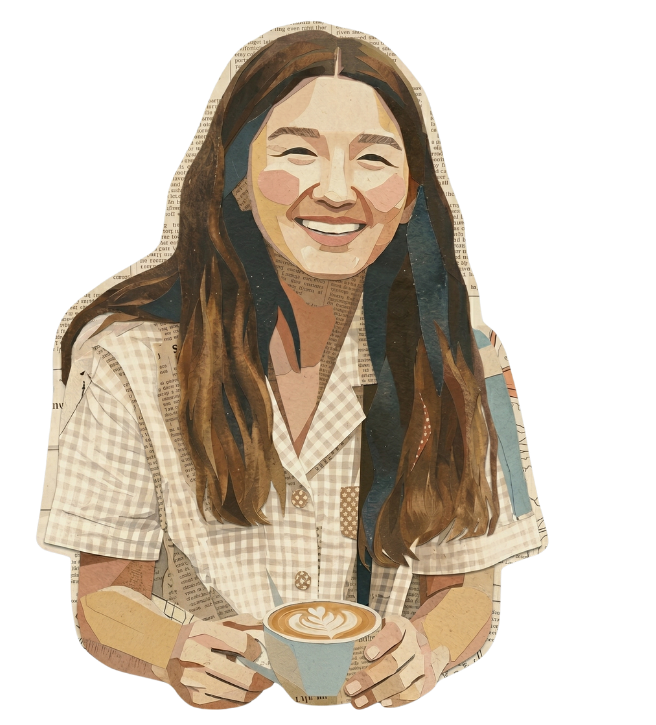
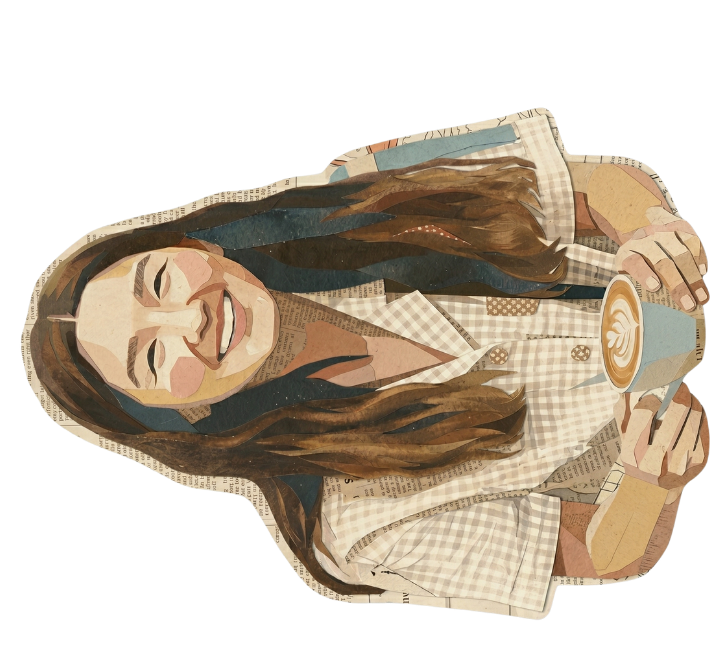
pens-com MPV complete, landing page image fixed

diff --git a/pens-com.html b/pens-com.html
@@ -453,6 +453,8 @@
     height: auto;
     border:0;
   }
+  .phone-bezel .screen::-webkit-scrollbar{ display:none; }
+  .laptop-screen::-webkit-scrollbar{ display:none; }
   .phone-bezel .home-bar{
     width:80px; height:4px;
     background:rgba(255,255,255,.25);
@@ -553,6 +555,12 @@
     --cream-3: rgba(255,255,255,.04);
   }
   .block.forest h2 em{ color: rgba(239,236,224,.6); }
+  .block.forest .scroll-btn{
+    background: #efece0;
+    color: var(--forest);
+  }
+  .block.forest .scroll-btn:hover{ background: #fff; }
+  .block.forest .scroll-btn:disabled{ opacity:.2; }
   .block.forest .ph-caption{ color: rgba(239,236,224,.4); }
   .block.forest .ph-caption::before{ border-color: rgba(239,236,224,.3); }
 
@@ -576,6 +584,19 @@
     gap:10px; transition:background .2s, color .2s;
   }
   .arrow-btn:hover{ background:var(--forest); color:var(--cream); }
+
+  /* ── SCROLL STRIP NAV ── */
+  .scroll-strip{ position:relative; }
+  .scroll-nav{ display:flex; gap:3px; align-items:center; }
+  .scroll-btn{
+    background:var(--ink); color:var(--cream);
+    border:none; width:26px; height:26px;
+    display:flex; align-items:center; justify-content:center;
+    cursor:pointer; padding:0; flex-shrink:0;
+    opacity:.7; transition:opacity .18s, background .18s;
+  }
+  .scroll-btn:hover{ opacity:1; }
+  .scroll-btn:disabled{ opacity:.2; cursor:default; }
 
   /* ── RESPONSIVE ── */
   @media(max-width:900px){
@@ -846,25 +867,29 @@
     </div>
 
     <!-- Research artifacts — documentation -->
-    <div style="margin-top:48px;">
-      <div style="font-family:var(--mono); font-size:9px; letter-spacing:.2em; text-transform:uppercase; color:var(--ink-faint); margin-bottom:12px; display:flex; justify-content:space-between;">
-        <span>Research artifacts</span><span>scroll to explore →</span>
+    <div class="scroll-strip" style="margin-top:48px;">
+      <div style="font-family:var(--mono); font-size:9px; letter-spacing:.2em; text-transform:uppercase; color:var(--ink-faint); margin-bottom:12px; display:flex; justify-content:space-between; align-items:center;">
+        <span>Research artifacts</span>
+        <div class="scroll-nav">
+          <button class="scroll-btn scroll-prev" aria-label="Previous"><svg width="11" height="11" viewBox="0 0 14 14" fill="none" stroke="currentColor" stroke-width="2.2"><path d="M9 2L4 7l5 5"/></svg></button>
+          <button class="scroll-btn scroll-next" aria-label="Next"><svg width="11" height="11" viewBox="0 0 14 14" fill="none" stroke="currentColor" stroke-width="2.2"><path d="M5 2l5 5-5 5"/></svg></button>
+        </div>
       </div>
-      <div style="display:flex; gap:2px; overflow-x:auto; scroll-snap-type:x mandatory; -webkit-overflow-scrolling:touch; background:var(--line-soft);">
+      <div class="scroll-inner" style="display:flex; gap:2px; overflow-x:auto; scroll-snap-type:x mandatory; -webkit-overflow-scrolling:touch; background:var(--line-soft);">
         <div style="flex-shrink:0; scroll-snap-align:start; background:var(--cream-2); overflow:hidden;">
-          <img src="assets/Pens_Microsite_Mobile_Audit_web.jpg" alt="Heuristic audit annotations" style="height:600px; width:auto; display:block;">
+          <a href="assets/Pens_Microsite_Mobile_Audit_web.jpg" target="_blank" class="img-link"><img src="assets/Pens_Microsite_Mobile_Audit_web.jpg" alt="Heuristic audit annotations" style="height:600px; width:auto; display:block;"></a>
           <div style="font-family:var(--mono); font-size:9px; color:var(--ink-faint); padding:8px 12px;">Heuristic audit · annotated</div>
         </div>
         <div style="flex-shrink:0; scroll-snap-align:start; background:var(--cream-2); overflow:hidden;">
-          <img src="assets/Pens_Microsite_mobile_findings_2.png" alt="User testing findings — sheet 2" style="height:600px; width:auto; display:block;">
+          <a href="assets/Pens_Microsite_mobile_findings_2.png" target="_blank" class="img-link"><img src="assets/Pens_Microsite_mobile_findings_2.png" alt="User testing findings — sheet 2" style="height:600px; width:auto; display:block;"></a>
           <div style="font-family:var(--mono); font-size:9px; color:var(--ink-faint); padding:8px 12px;">User testing findings · sheet 1</div>
         </div>
         <div style="flex-shrink:0; scroll-snap-align:start; background:var(--cream-2); overflow:hidden;">
-          <img src="assets/Pens_Microsite_mobile_findings_1.png" alt="User testing findings — sheet 1" style="height:600px; width:auto; display:block;">
+          <a href="assets/Pens_Microsite_mobile_findings_1.png" target="_blank" class="img-link"><img src="assets/Pens_Microsite_mobile_findings_1.png" alt="User testing findings — sheet 1" style="height:600px; width:auto; display:block;"></a>
           <div style="font-family:var(--mono); font-size:9px; color:var(--ink-faint); padding:8px 12px;">User testing findings · sheet 2</div>
         </div>
         <div style="flex-shrink:0; scroll-snap-align:start; background:var(--cream-2); overflow:hidden;">
-          <img src="assets/Pens_Microsite_Mobile_Testing_Results.jpg" alt="Testing results summary" style="height:600px; width:auto; display:block;">
+          <a href="assets/Pens_Microsite_Mobile_Testing_Results.jpg" target="_blank" class="img-link"><img src="assets/Pens_Microsite_Mobile_Testing_Results.jpg" alt="Testing results summary" style="height:600px; width:auto; display:block;"></a>
           <div style="font-family:var(--mono); font-size:9px; color:var(--ink-faint); padding:8px 12px;">Testing results summary</div>
         </div>
       </div>
@@ -967,11 +992,15 @@
     </div>
 
     <!-- Backlog section -->
-    <div style="margin-top:40px; margin-bottom:48px;">
-      <div style="font-family:var(--mono); font-size:9px; letter-spacing:.2em; text-transform:uppercase; color:var(--ink-faint); margin-bottom:12px; display:flex; justify-content:space-between;">
-        <span>Ideation backlog · impact/effort matrix + lo-fi concepts</span><span>scroll to explore →</span>
+    <div class="scroll-strip" style="margin-top:40px; margin-bottom:48px;">
+      <div style="font-family:var(--mono); font-size:9px; letter-spacing:.2em; text-transform:uppercase; color:var(--ink-faint); margin-bottom:12px; display:flex; justify-content:space-between; align-items:center;">
+        <span>Ideation backlog · impact/effort matrix + lo-fi concepts</span>
+        <div class="scroll-nav">
+          <button class="scroll-btn scroll-prev" aria-label="Previous"><svg width="11" height="11" viewBox="0 0 14 14" fill="none" stroke="currentColor" stroke-width="2.2"><path d="M9 2L4 7l5 5"/></svg></button>
+          <button class="scroll-btn scroll-next" aria-label="Next"><svg width="11" height="11" viewBox="0 0 14 14" fill="none" stroke="currentColor" stroke-width="2.2"><path d="M5 2l5 5-5 5"/></svg></button>
+        </div>
       </div>
-      <div style="display:flex; gap:2px; overflow-x:auto; scroll-snap-type:x mandatory; -webkit-overflow-scrolling:touch; background:var(--line-soft);">
+      <div class="scroll-inner" style="display:flex; gap:2px; overflow-x:auto; scroll-snap-type:x mandatory; -webkit-overflow-scrolling:touch; background:var(--line-soft);">
 
         <div style="flex-shrink:0; scroll-snap-align:start; background:var(--cream-2); overflow:hidden;">
           <a href="assets/Pens_Microsite_Impact_Effort_Matrix.jpg" target="_blank" class="img-link"><img src="assets/Pens_Microsite_Impact_Effort_Matrix.jpg" alt="Impact/effort matrix" style="height:600px; width:auto; display:block;"></a>
@@ -1025,38 +1054,54 @@
     <h2>Set the vision. <em>Ship smart.</em></h2>
 
     <p>
-      Before any concepts, I mapped the checkout system as it actually existed. What I found wasn't one checkout. It was four distinct payment portals, each with its own decision tree, UI, and abandonment risk. It wasn't a UX problem sitting on top of a working system. The system itself had fractured into four separate things.
+      Before any concepts, I mapped the checkout system as it actually existed. What I found wasn't one checkout. It was one main website checkout with three other payment portals, each with its own decision tree, UI, and abandonment risk. It was both a UX problem and a business problem. We were supporting in total 3 different types of checkouts: (1) main website (2) payment portals (3) microsite. 
     </p>
 
     <!-- Checkout flow complexity -->
-    <div style="margin-top:32px; margin-bottom:32px;">
-      <div style="font-family:var(--mono); font-size:9px; letter-spacing:.2em; text-transform:uppercase; color:var(--ink-faint); margin-bottom:12px;">Current state · mobile guest checkout flow</div>
-      <img src="assets/Pens_Checkout_Flow_Mobile.jpg" alt="Mobile guest checkout flow — current state" style="width:100%; display:block; border:1px solid var(--line-soft);">
-      <div class="ph-caption">Mobile guest checkout · 4 pages, multiple branching paths · mapped before any redesign work began</div>
-    </div>
-
-    <div style="margin-bottom:32px;">
-      <div style="font-family:var(--mono); font-size:9px; letter-spacing:.2em; text-transform:uppercase; color:var(--ink-faint); margin-bottom:12px;">Additional payment portals · 3 separate systems</div>
-      <img src="assets/Pens_Checkout_Flow_Other_Portals.jpg" alt="Order Payment Portal, Invoice Payment Portal, One Flow Payment Portal flows" style="width:100%; display:block; border:1px solid var(--line-soft);">
-      <div class="ph-caption">Order Payment · Invoice Payment · One Flow Payment · each with its own decision tree and abandonment risk</div>
-    </div>
-
-    <!-- Baymard research placeholder -->
-    <div style="margin-bottom:32px;">
-      <div style="font-family:var(--mono); font-size:9px; letter-spacing:.2em; text-transform:uppercase; color:var(--ink-faint); margin-bottom:12px;">Research foundation · Baymard Institute audit</div>
-      <div style="aspect-ratio:16/7; background:var(--cream-3); border:1px solid var(--line-soft); display:flex; flex-direction:column; align-items:center; justify-content:center; gap:8px;">
-        <div style="font-family:var(--mono); font-size:9px; letter-spacing:.2em; text-transform:uppercase; color:var(--rust); border:1px dashed var(--rust); padding:6px 12px;">Drop file: Pens_Checkout_Research.png</div>
-        <div style="font-family:var(--mono); font-size:9px; color:var(--ink-faint);">Baymard checkout principles · annotated against current Pens.com checkout state</div>
+    <div class="scroll-strip" style="margin-top:32px; margin-bottom:32px;">
+      <div style="font-family:var(--mono); font-size:9px; letter-spacing:.2em; text-transform:uppercase; color:var(--ink-faint); margin-bottom:12px; display:flex; justify-content:space-between; align-items:center;">
+        <span>Current state · checkout system mapping</span>
+        <div class="scroll-nav">
+          <button class="scroll-btn scroll-prev" aria-label="Previous"><svg width="11" height="11" viewBox="0 0 14 14" fill="none" stroke="currentColor" stroke-width="2.2"><path d="M9 2L4 7l5 5"/></svg></button>
+          <button class="scroll-btn scroll-next" aria-label="Next"><svg width="11" height="11" viewBox="0 0 14 14" fill="none" stroke="currentColor" stroke-width="2.2"><path d="M5 2l5 5-5 5"/></svg></button>
+        </div>
       </div>
-      <div class="ph-caption">Baymard Institute benchmark · industry best practice mapped against current checkout · Annie Park annotation</div>
+      <div class="scroll-inner" style="display:flex; gap:2px; overflow-x:auto; scroll-snap-type:x mandatory; -webkit-overflow-scrolling:touch; background:var(--line-soft);">
+        <div style="flex-shrink:0; scroll-snap-align:start; background:var(--cream-2); overflow:hidden;">
+          <a href="assets/Pens_Checkout_Flow_Mobile.jpg" target="_blank" class="img-link"><img src="assets/Pens_Checkout_Flow_Mobile.jpg" alt="Mobile guest checkout flow — current state" style="height:600px; width:auto; display:block;"></a>
+          <div style="font-family:var(--mono); font-size:9px; color:var(--ink-faint); padding:8px 12px;">Current state · mobile guest checkout flow · 4 pages, multiple branching paths</div>
+        </div>
+        <div style="flex-shrink:0; scroll-snap-align:start; background:var(--cream-2); overflow:hidden;">
+          <a href="assets/Pens_Checkout_Flow_Other_Portals.jpg" target="_blank" class="img-link"><img src="assets/Pens_Checkout_Flow_Other_Portals.jpg" alt="Order Payment Portal, Invoice Payment Portal, One Flow Payment Portal flows" style="height:600px; width:auto; display:block;"></a>
+          <div style="font-family:var(--mono); font-size:9px; color:var(--ink-faint); padding:8px 12px;">Additional payment portals · 3 separate systems · each with its own decision tree and abandonment risk</div>
+        </div>
+        <div style="flex-shrink:0; scroll-snap-align:start; background:var(--cream-2); overflow:hidden;">
+          <a href="assets/Pens_Checkout_Research_web.jpg" target="_blank" class="img-link"><img src="assets/Pens_Checkout_Research_web.jpg" alt="Baymard checkout principles annotated against current Pens.com checkout state" style="height:600px; width:auto; display:block;"></a>
+          <div style="font-family:var(--mono); font-size:9px; color:var(--ink-faint); padding:8px 12px;">Research foundation · Baymard Institute benchmark · industry best practice mapped against current checkout</div>
+        </div>
+      </div>
     </div>
 
     <p>
-      I started with the full vision: a one-page experience that compressed the multi-step checkout into a single continuous scroll. I presented it to the design team and PMs to cast a shared picture of what "better" could look like — before constraining it to what was currently buildable.
+      Though we were still in the middle of the Braintree Migration and brand changes, neither stopped the work. They just changed what was realistic. I worked with the PM to figure out exactly what we could actually ship and built a scoping document to make those tradeoffs explicit. What I presented to the PM:
     </p>
 
-    <!-- Vision — one-page prototype -->
-    <div style="margin-top:32px;">
+    <!-- Vision + MVP two-card row -->
+    <div style="display:grid; grid-template-columns:1fr 1fr; gap:1px; background:var(--line-soft); border:1px solid var(--line-soft); margin-top:28px;">
+      <div style="background:var(--cream-2); padding:32px 28px;">
+        <div style="font-family:var(--mono); font-size:9px; letter-spacing:.2em; text-transform:uppercase; color:var(--ink-faint); margin-bottom:14px;">01 · The Full Vision</div>
+        <div style="font-family:var(--serif); font-size:22px; font-weight:500; font-style:italic; color:var(--ink); margin-bottom:14px; line-height:1.2;">One-page experience</div>
+        <p style="font-size:14px; line-height:1.72; color:var(--ink-2); margin:0;">A single continuous scroll that compressed the entire multi-step checkout. Goal: to show what "better" could look like before constraining to what was currently buildable.</p>
+      </div>
+      <div style="background:var(--cream-2); padding:32px 28px;">
+        <div style="font-family:var(--mono); font-size:9px; letter-spacing:.2em; text-transform:uppercase; color:var(--ink-faint); margin-bottom:14px;">02 · The MVP</div>
+        <div style="font-family:var(--serif); font-size:22px; font-weight:500; font-style:italic; color:var(--ink); margin-bottom:14px; line-height:1.2;">Same principles. Scoped to reality.</div>
+        <p style="font-size:14px; line-height:1.72; color:var(--ink-2); margin:0;">Price transparency, reduced friction, clearer progress — without restructuring the page architecture. Built with the PM to reflect exactly what was shippable within the Braintree migration and marketing constraints.</p>
+      </div>
+    </div>
+
+    <!-- Interactive prototype -->
+    <div style="margin-top:40px;">
       <div style="font-family:var(--mono); font-size:9px; letter-spacing:.2em; text-transform:uppercase; color:var(--ink-faint); margin-bottom:16px;">The vision · one-page experience · click to interact</div>
       <div style="display:grid; grid-template-columns:260px 1fr; gap:24px; align-items:start;">
         <div>
@@ -1075,41 +1120,85 @@
       <div class="ph-caption">North star concept · 8 pages → single continuous scroll · price surfaced upfront · persistent order summary · alignment tool for PM + engineering</div>
     </div>
 
-    <p>
-      Though we were still in the middle of the Braintree Migration and brand changes, neither stopped the work. They just changed what was realistic. I worked with the PM to figure out exactly what we could actually ship and built a scoping document to make those tradeoffs explicit.
-    </p>
-
-    <!-- PM scoping doc -->
-    <div style="margin-top:32px; margin-bottom:8px;">
+    <!-- MVP handoff screens -->
+    <div style="margin-top:40px;">
       <div style="font-family:var(--mono); font-size:9px; letter-spacing:.2em; text-transform:uppercase; color:var(--ink-faint); margin-bottom:12px;">PM scoping document · what's changeable given constraints</div>
       <img src="assets/Pens_Checkout_MVP.jpg" alt="PM scoping document — annotated checkout screens showing feasible changes" style="width:100%; display:block; border:1px solid var(--line-soft);">
       <div class="ph-caption">Annotated for PM · translating design decisions into engineering feasibility within Braintree migration + marketing priority shift</div>
     </div>
 
     <p style="margin-top:32px;">
-      The MVP applied the same core principles as the vision (price transparency, reduced friction, clearer progress) without restructuring the page architecture. The handoff covered both mobile and desktop.
+      With scope aligned, I produced the final handoff, which included the website checkout and the three payment portals with all the same experience, ready for engineering.
     </p>
 
-    <!-- MVP handoff screens -->
-    <div style="display:grid; grid-template-columns:1fr 1fr; gap:1px; background:var(--line-soft); border:1px solid var(--line-soft); margin-top:24px;">
-      <div style="background:var(--cream-2); overflow:hidden;">
-        <div style="font-family:var(--mono); font-size:9px; letter-spacing:.2em; text-transform:uppercase; color:var(--ink-faint); padding:10px 14px; border-bottom:1px solid var(--line-soft);">MVP · Mobile handoff</div>
-        <img src="assets/Pens_MVP_Mobile_Handoff.jpg" alt="MVP mobile handoff — Review & Payment screen" style="width:100%; display:block;">
+    <div style="display:flex; gap:40px; align-items:flex-start; margin-top:24px; flex-wrap:wrap;">
+
+      <!-- Phone -->
+      <div style="display:flex; flex-direction:column; align-items:center; gap:12px; flex-shrink:0;">
+        <div style="font-family:var(--mono); font-size:9px; letter-spacing:.2em; text-transform:uppercase; color:var(--ink-faint);">Mobile</div>
+        <div class="phone-bezel">
+          <div class="notch"></div>
+          <div class="screen" style="height:520px; overflow-y:auto; -webkit-overflow-scrolling:touch; scrollbar-width:none;">
+            <img src="assets/Pens_MVP_Mobile_Handoff.jpg" alt="MVP mobile handoff — Review & Payment screen" style="width:100%; display:block;">
+          </div>
+          <div class="home-bar"></div>
+        </div>
+        <div style="font-family:var(--mono); font-size:9px; color:var(--ink-faint); text-align:center;">scroll to explore ↑↓</div>
       </div>
-      <div style="background:var(--cream-2); overflow:hidden;">
-        <div style="font-family:var(--mono); font-size:9px; letter-spacing:.2em; text-transform:uppercase; color:var(--ink-faint); padding:10px 14px; border-bottom:1px solid var(--line-soft);">MVP · Desktop handoff</div>
-        <img src="assets/Pens_MVP_Desktop_Handoff.jpg" alt="MVP desktop handoff — Review & Payment screen" style="width:100%; display:block;">
+
+      <!-- Laptop -->
+      <div style="flex:1; min-width:280px; display:flex; flex-direction:column; gap:12px;">
+        <div style="font-family:var(--mono); font-size:9px; letter-spacing:.2em; text-transform:uppercase; color:var(--ink-faint);">Desktop</div>
+        <div>
+          <div style="background:#1e1c18; border-radius:10px 10px 0 0; padding:12px 12px 8px; box-shadow:0 0 0 1px #2e2b26, 0 24px 56px -8px rgba(0,0,0,.5);">
+            <div style="text-align:center; margin-bottom:8px; line-height:0;">
+              <span style="display:inline-block; width:5px; height:5px; background:#2e2b26; border-radius:50%;"></span>
+            </div>
+            <div class="laptop-screen" style="border-radius:3px; overflow-y:auto; overflow-x:hidden; line-height:0; max-height:420px; scrollbar-width:none; -webkit-overflow-scrolling:touch;">
+              <img src="assets/Pens_MVP_Desktop_Handoff.jpg" alt="MVP desktop handoff — Review & Payment screen" style="width:100%; display:block;">
+            </div>
+          </div>
+          <div style="background:#232120; height:14px; border-radius:0 0 2px 2px; margin:0 -1px; border:1px solid #2e2b26; border-top:0;"></div>
+          <div style="background:#1c1a16; height:6px; border-radius:0 0 6px 6px; margin:0 -28px; box-shadow:0 6px 18px rgba(0,0,0,.35);"></div>
+        </div>
+        <div style="font-family:var(--mono); font-size:9px; color:var(--ink-faint); margin-top:20px;">scroll to explore ↑↓</div>
+      </div>
+      </div>
+
+    </div>
+    <div class="ph-caption" style="margin-top:32px;">MVP handoff · 3-step progress, price transparency surfaced, payment options clarified · same principles as vision, scoped to reality</div>
+
+    <!-- Handoff evidence -->
+    <div style="margin-top:48px;">
+      <div style="font-family:var(--mono); font-size:9px; letter-spacing:.22em; text-transform:uppercase; color:var(--ink-faint); margin-bottom:14px;">Final deliverable · handoff documentation</div>
+      <div style="display:grid; grid-template-columns:1fr 1fr; gap:2px; background:rgba(255,255,255,.08); border:1px solid rgba(255,255,255,.08);">
+        <div style="position:relative; overflow:hidden; background:#111;">
+          <img src="assets/Pens_Checkout_Website_Handoff.png" alt="Figma handoff — website checkout screens, desktop components, mobile components, breakpoints" style="width:100%; display:block; opacity:0.78; filter:brightness(1.05);">
+          <div style="position:absolute; bottom:0; left:0; right:0; padding:10px 14px; background:linear-gradient(transparent, rgba(0,0,0,.65));">
+            <div style="font-family:var(--mono); font-size:9px; color:rgba(239,236,224,.55); letter-spacing:.16em; text-transform:uppercase;">Website checkout · desktop + mobile + breakpoints + components</div>
+          </div>
+        </div>
+        <div style="position:relative; overflow:hidden; background:#111;">
+          <img src="assets/Pens_Checkout_Payment_Portals_Handoff.png" alt="Figma handoff — payment portals OPP, IPP, OFP screens" style="width:100%; display:block; opacity:0.78; filter:brightness(1.05);">
+          <div style="position:absolute; bottom:0; left:0; right:0; padding:10px 14px; background:linear-gradient(transparent, rgba(0,0,0,.65));">
+            <div style="font-family:var(--mono); font-size:9px; color:rgba(239,236,224,.55); letter-spacing:.16em; text-transform:uppercase;">Payment portals · OPP · IPP · OFP</div>
+          </div>
+        </div>
+      </div>
+      <div style="font-family:var(--mono); font-size:9px; letter-spacing:.16em; text-transform:uppercase; color:var(--ink-faint); margin-top:10px; display:flex; align-items:center; gap:8px;">
+        <span style="display:inline-block; width:5px; height:5px; border:1px solid var(--rust); border-radius:50%; flex-shrink:0;"></span>
+        Figma handoff · website checkout + 3 payment portals · screens, states, and components ready for engineering
       </div>
     </div>
-    <div class="ph-caption">MVP handoff · 3-step progress, price transparency surfaced, payment options clarified · same principles as vision, scoped to reality</div>
 
   </div>
 </div>
 
 <!-- ═══════════════════
      MORE AT PENS
+     (hidden — uncomment when ready)
 ════════════════════ -->
-<div class="more-section">
+<!-- <div class="more-section" style="display:none;">
   <div class="container">
     <div class="more-label">More at Pens.com</div>
     <div class="more-tiles">
@@ -1165,7 +1254,7 @@
 
     </div>
   </div>
-</div>
+</div> -->
 
 <!-- ═══════════════════
      NEXT PROJECT
@@ -1181,5 +1270,28 @@
   </a>
 </div>
 
+<script>
+  document.querySelectorAll('.scroll-strip').forEach(strip => {
+    const inner = strip.querySelector('.scroll-inner');
+    const prev  = strip.querySelector('.scroll-prev');
+    const next  = strip.querySelector('.scroll-next');
+    if (!inner || !prev || !next) return;
+
+    function update() {
+      prev.disabled = inner.scrollLeft <= 1;
+      next.disabled = inner.scrollLeft >= inner.scrollWidth - inner.clientWidth - 1;
+    }
+
+    prev.addEventListener('click', () => {
+      inner.scrollBy({ left: -inner.clientWidth * 0.85, behavior: 'smooth' });
+    });
+    next.addEventListener('click', () => {
+      inner.scrollBy({ left:  inner.clientWidth * 0.85, behavior: 'smooth' });
+    });
+
+    inner.addEventListener('scroll', update, { passive: true });
+    update();
+  });
+</script>
 </body>
 </html>

diff --git a/index.html b/index.html
@@ -1316,6 +1316,7 @@
       <div class="name-line">Complexity into clarity. <span class="ital">Clarity into growth.</span></div>
       <p class="lede">
         Architecting simplicity within complex systems for 8+ years. Proven impact — from 17.47% growth at Pens.com to 185% reach increases via AI-native strategy. One year in Taipei sharpened a lens no single market can teach.
+        <br> *Relocating to Irvine, CA July 2026
       </p>
       <div class="cta-row">
         <a href="#work" class="btn primary">View Work</a>
@@ -1705,12 +1706,8 @@
       </div>
     </div>
 
-    <div>
-      <div style="display:flex; align-items:center; justify-content:center; height:100%;">
-        <div class="values-portrait-wrap">
-          <img src="assets/annie-front.png" alt="Annie smiling with latte" class="portrait-img values-portrait-img" style="width: 401px">
-        </div>
-      </div>
+    <div style="display:flex; align-items:center; justify-content:center;">
+      <img src="assets/annie-front.png" alt="Annie smiling with latte" class="values-portrait-img" style="width:min(401px,100%); height:auto; display:block;">
     </div>
   </div>
 </section>

diff --git a/CLAUDE.md b/CLAUDE.md
@@ -29,3 +29,7 @@ Frame the **Taipei to Irvine relocation** as a **"Global Perspective" edge** in 
 - Strictly avoid "scattered" narratives.
 - If a page feels like a list of tasks, rewrite it as a strategic case study.
 - Every section should answer: What was the system problem? What was the decision? What was the outcome?
+
+Always keep this feedback in mind when making decisions and providing advice. It is feedback about Annie's legacy portfolio from a hiring manager: 
+"The biggest area I'd encourage Annie to focus on is her portfolio. It's such a critical piece. It's the one place for a designer where there are no stakeholders, no constraints, and full creative control. It should be a genuine showcase of her design thinking and craft, and right now I don't think it's doing her justice.
+Tell a clearer story - Some of the projects feel a little scattered in their presentation. Each case study should have a clear narrative around how it demonstrates the quality of her work and the impact she had. The hiring manager should walk away knowing exactly what Annie brings to the table.Sweat the details on the portfolio itself - There were a few UX rough spots on the site that caught my eye. Worth going through it with fresh eyes or asking someone to review it, since the portfolio itself is a reflection of her attention to detail as a designer.Consider building it herself - This is a bigger lift, but there's a growing expectation for designers to be comfortable building working prototypes and concepts. Ditching a platform like Wix and coding her own portfolio even using something like using Claude Code to help build it out would be a stronger signal to hiring managers and a great way to level up."